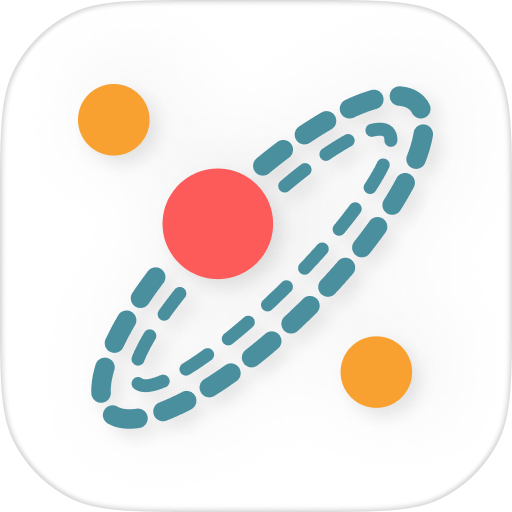
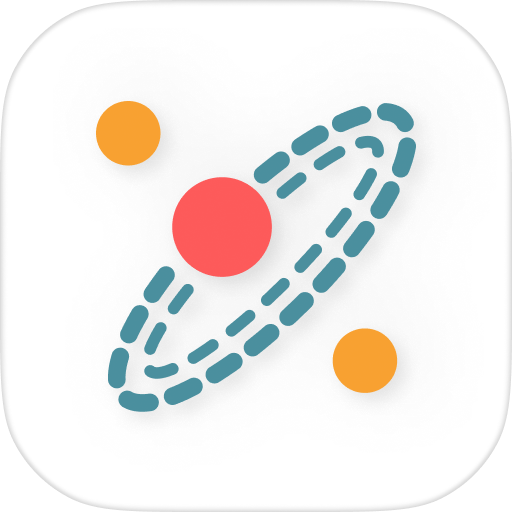
Support IP address, email address

Changed region(s): [[0.1562, 0.1562, 0.8438, 0.8438], [0.625, 0.625, 0.8125, 0.8125], [0.125, 0.1562, 0.3125, 0.3438]]

diff --git a/src/open-path.tsx b/src/open-path.tsx
@@ -1,9 +1,10 @@
 import { getPreferenceValues, open, showHUD, showInFinder } from "@raycast/api";
 import { fetchItemInputClipboardFirst, fetchItemInputSelectedFirst } from "./utils/input-item";
-import { checkIsFile, isEmpty, isUrl, Preference, searchUrlBuilder, urlBuilder } from "./utils/common-utils";
+import { checkIsFile, isEmail, isEmpty, isUrl, Preference, searchUrlBuilder, urlBuilder } from "./utils/common-utils";
 import fse from "fs-extra";
 import { homedir } from "os";
 import { URL } from "url";
+import { isIPv4 } from "net";
 
 export default async () => {
   const { trimText, isShowHud, priorityDetection, searchEngine } = getPreferenceValues<Preference>();
@@ -15,16 +16,34 @@ export default async () => {
     await showHud(isShowHud, "No path detected");
     return "";
   }
-
   if (fse.pathExistsSync(path)) {
     await open(path);
-    console.info("open(path)");
+    console.info("open: directory path");
+    await showHud(isShowHud, "Open Path: " + path);
+    return;
+  }
+
+  if (isIPv4(path)) {
+    if (path == "127.0.0.1") {
+      await open("http://www." + path);
+    } else {
+      await open("http://" + path);
+    }
+    console.info("open: IP address");
+    await showHud(isShowHud, "Open IP: " + path);
+    return;
+  }
+
+  if (isEmail(path)) {
+    await open("mailto:" + path);
+    console.info("open: email");
+    await showHud(isShowHud, "Send Email: " + path);
     return;
   }
 
   try {
     await open(new URL(path).toString());
-    console.info("open(new URL(path).toString())");
+    console.info("open: URL");
     await showHud(isShowHud, "Open URL: " + path);
   } catch (e) {
     await reOpenURL(isShowHud, path, searchEngine);

diff --git a/src/utils/common-utils.ts b/src/utils/common-utils.ts
@@ -22,6 +22,11 @@ export const checkIsFile = (path: string) => {
   }
 };
 
+export function isEmail(text: string): boolean {
+  const regex = /^[\da-zA-Z_.-]+@[\da-zA-Z_.-]+([.][a-zA-Z]+){1,2}$/;
+  return regex.test(text);
+}
+
 export function isUrl(text: string): boolean {
   const regex = /^((http|https|ftp):\/\/)?((?:[\w-]+\.)+[a-z\d]+)((?:\/[^/?#]*)+)?(\?[^#]+)?(#.+)?$/i;
   return regex.test(text) || isIP(text);

diff --git a/README.md b/README.md
@@ -1,13 +1,16 @@
 # Open Path
 
-Open path or URL from selection or clipboard, support directory, url, url scheme, mailto, etc.
+Open path from selection or clipboard.
+Support directory, URL, IP address, URL scheme, mailto, email address, etc.
 
 **The following are supported, try it:**
 
 - Directory: `/Users/Username/Desktop`, `~/Desktop`
 - URL: `https://www.raycast.com`, `www.raycast.com`, `raycast.com`
 - URL Scheme: `raycast://confetti`
+- IP address: `76.76.21.21`
 - mailto: `mailto:hello@raycast.com`
+- Email address: `hello@raycast.com`
 
 **Preference:**
 

diff --git a/CHANGELOG.md b/CHANGELOG.md
@@ -1,9 +1,9 @@
 # Open Path Changelog
 
-## [Update extension icons] - 2022-05-25
+## [Update extension icons] - 2022-05-26
 
 - Update extension icons.
-- Support open **URL scheme** and **mailto:**.
+- Support open **URL scheme**, **IP address**, **mailto:**, **email address**.
 
 ## [Initial Version] - 2022-05-15
 
